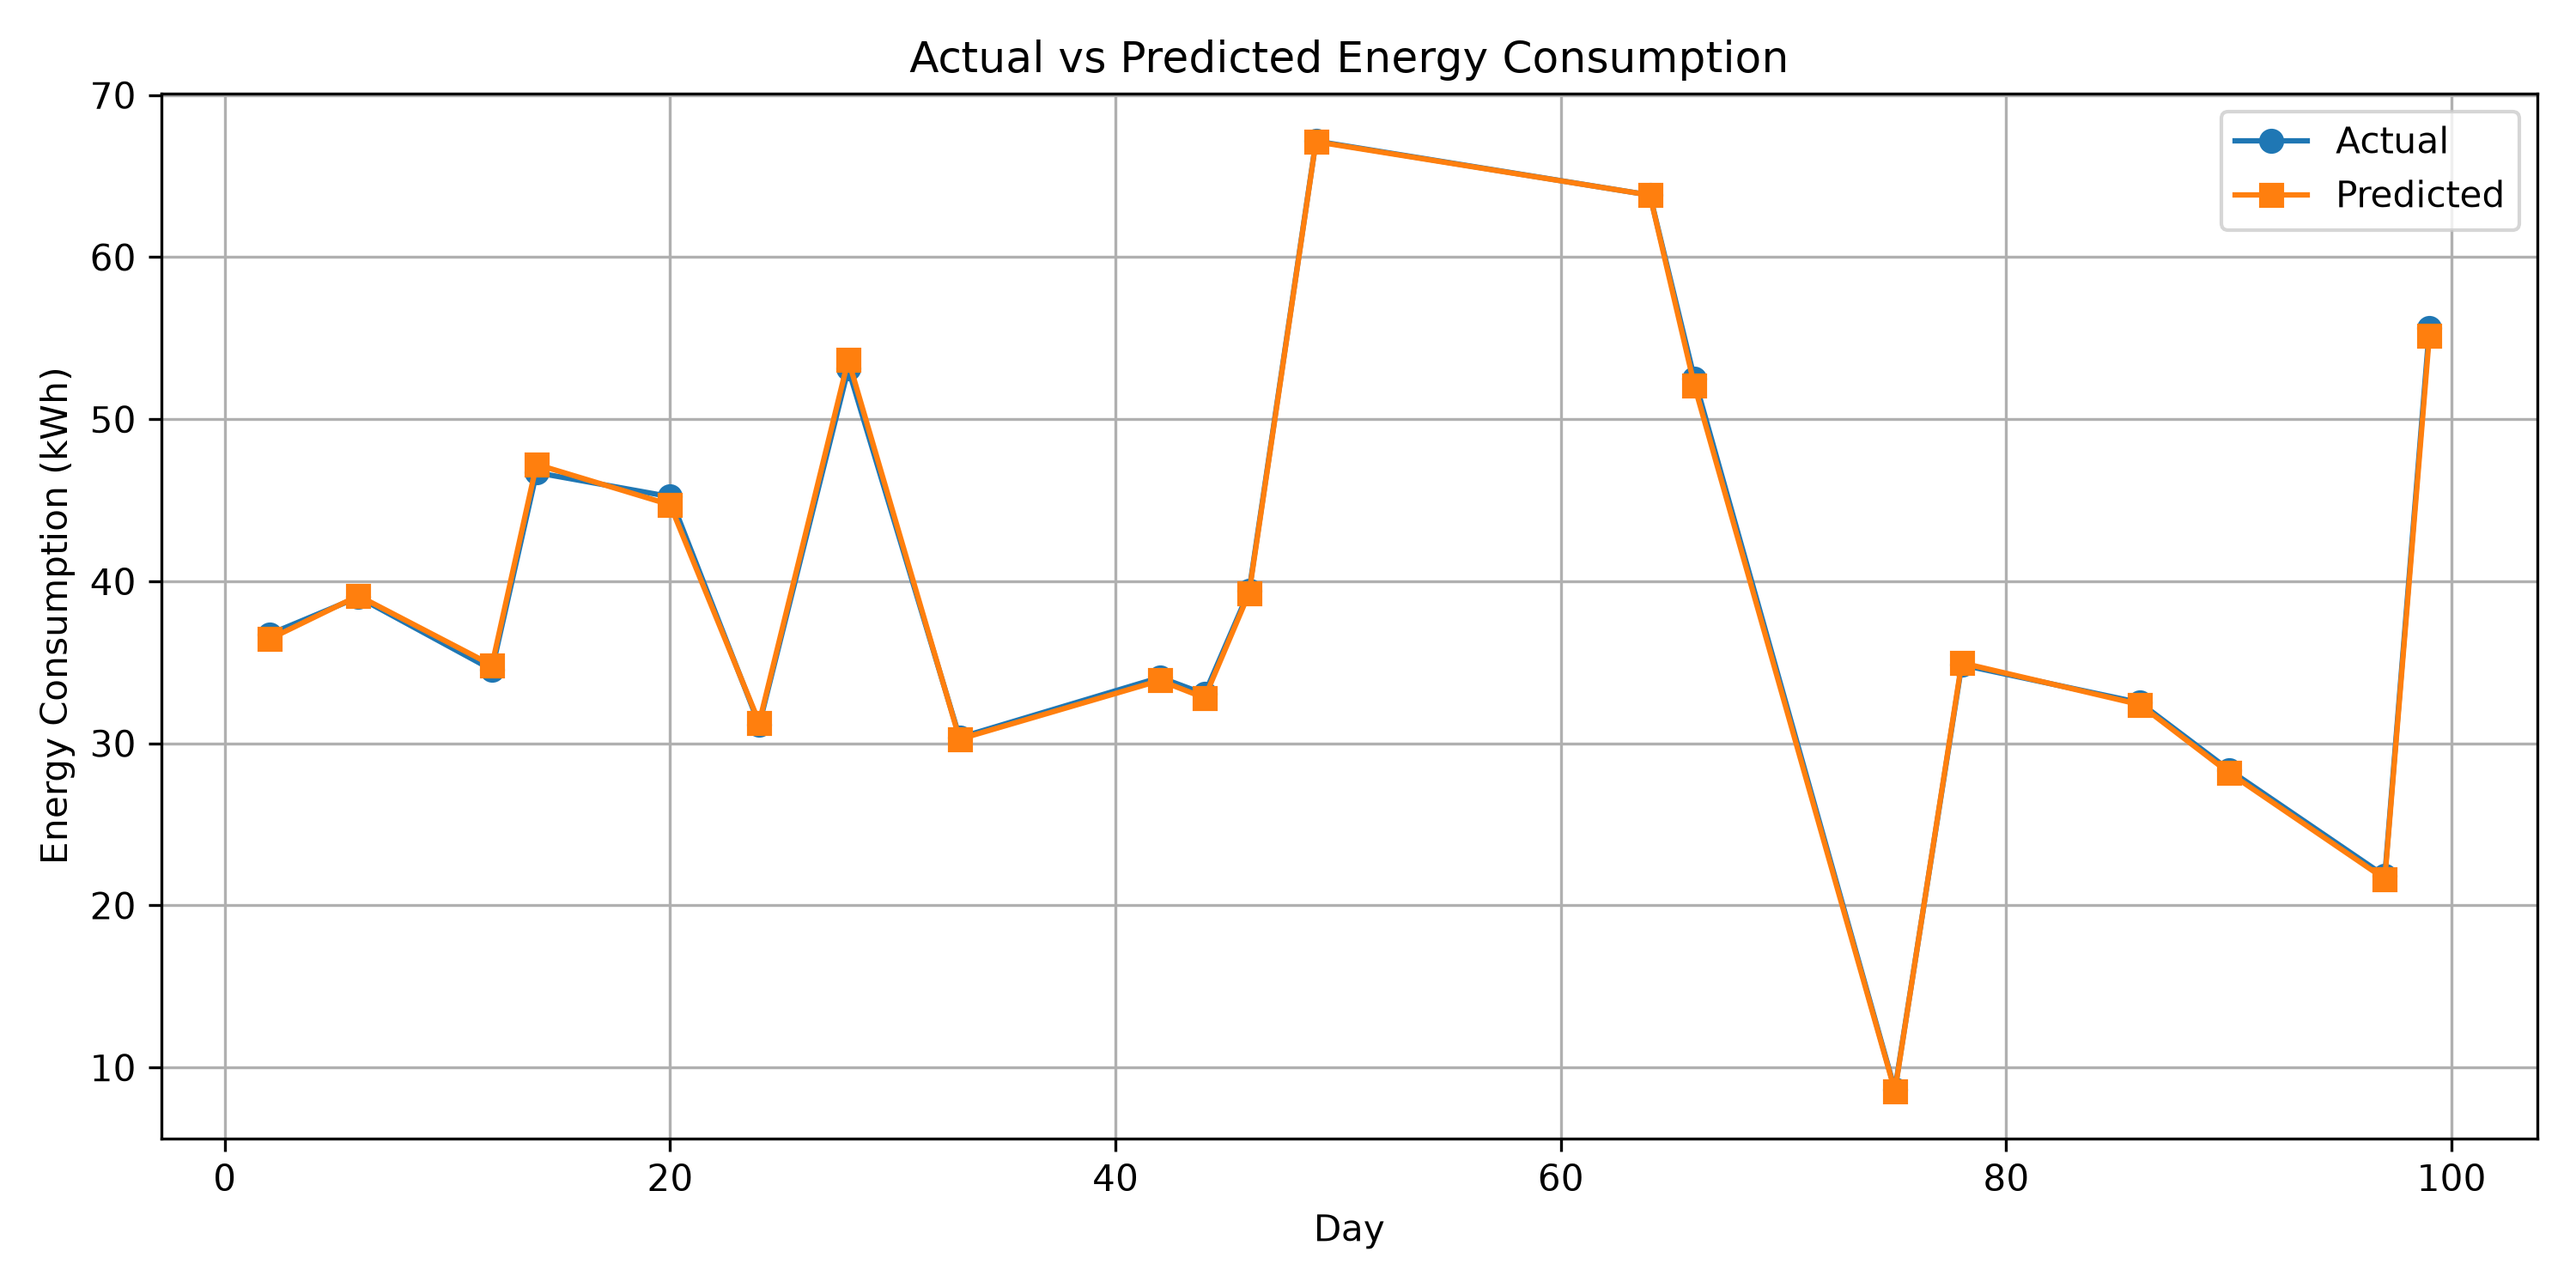
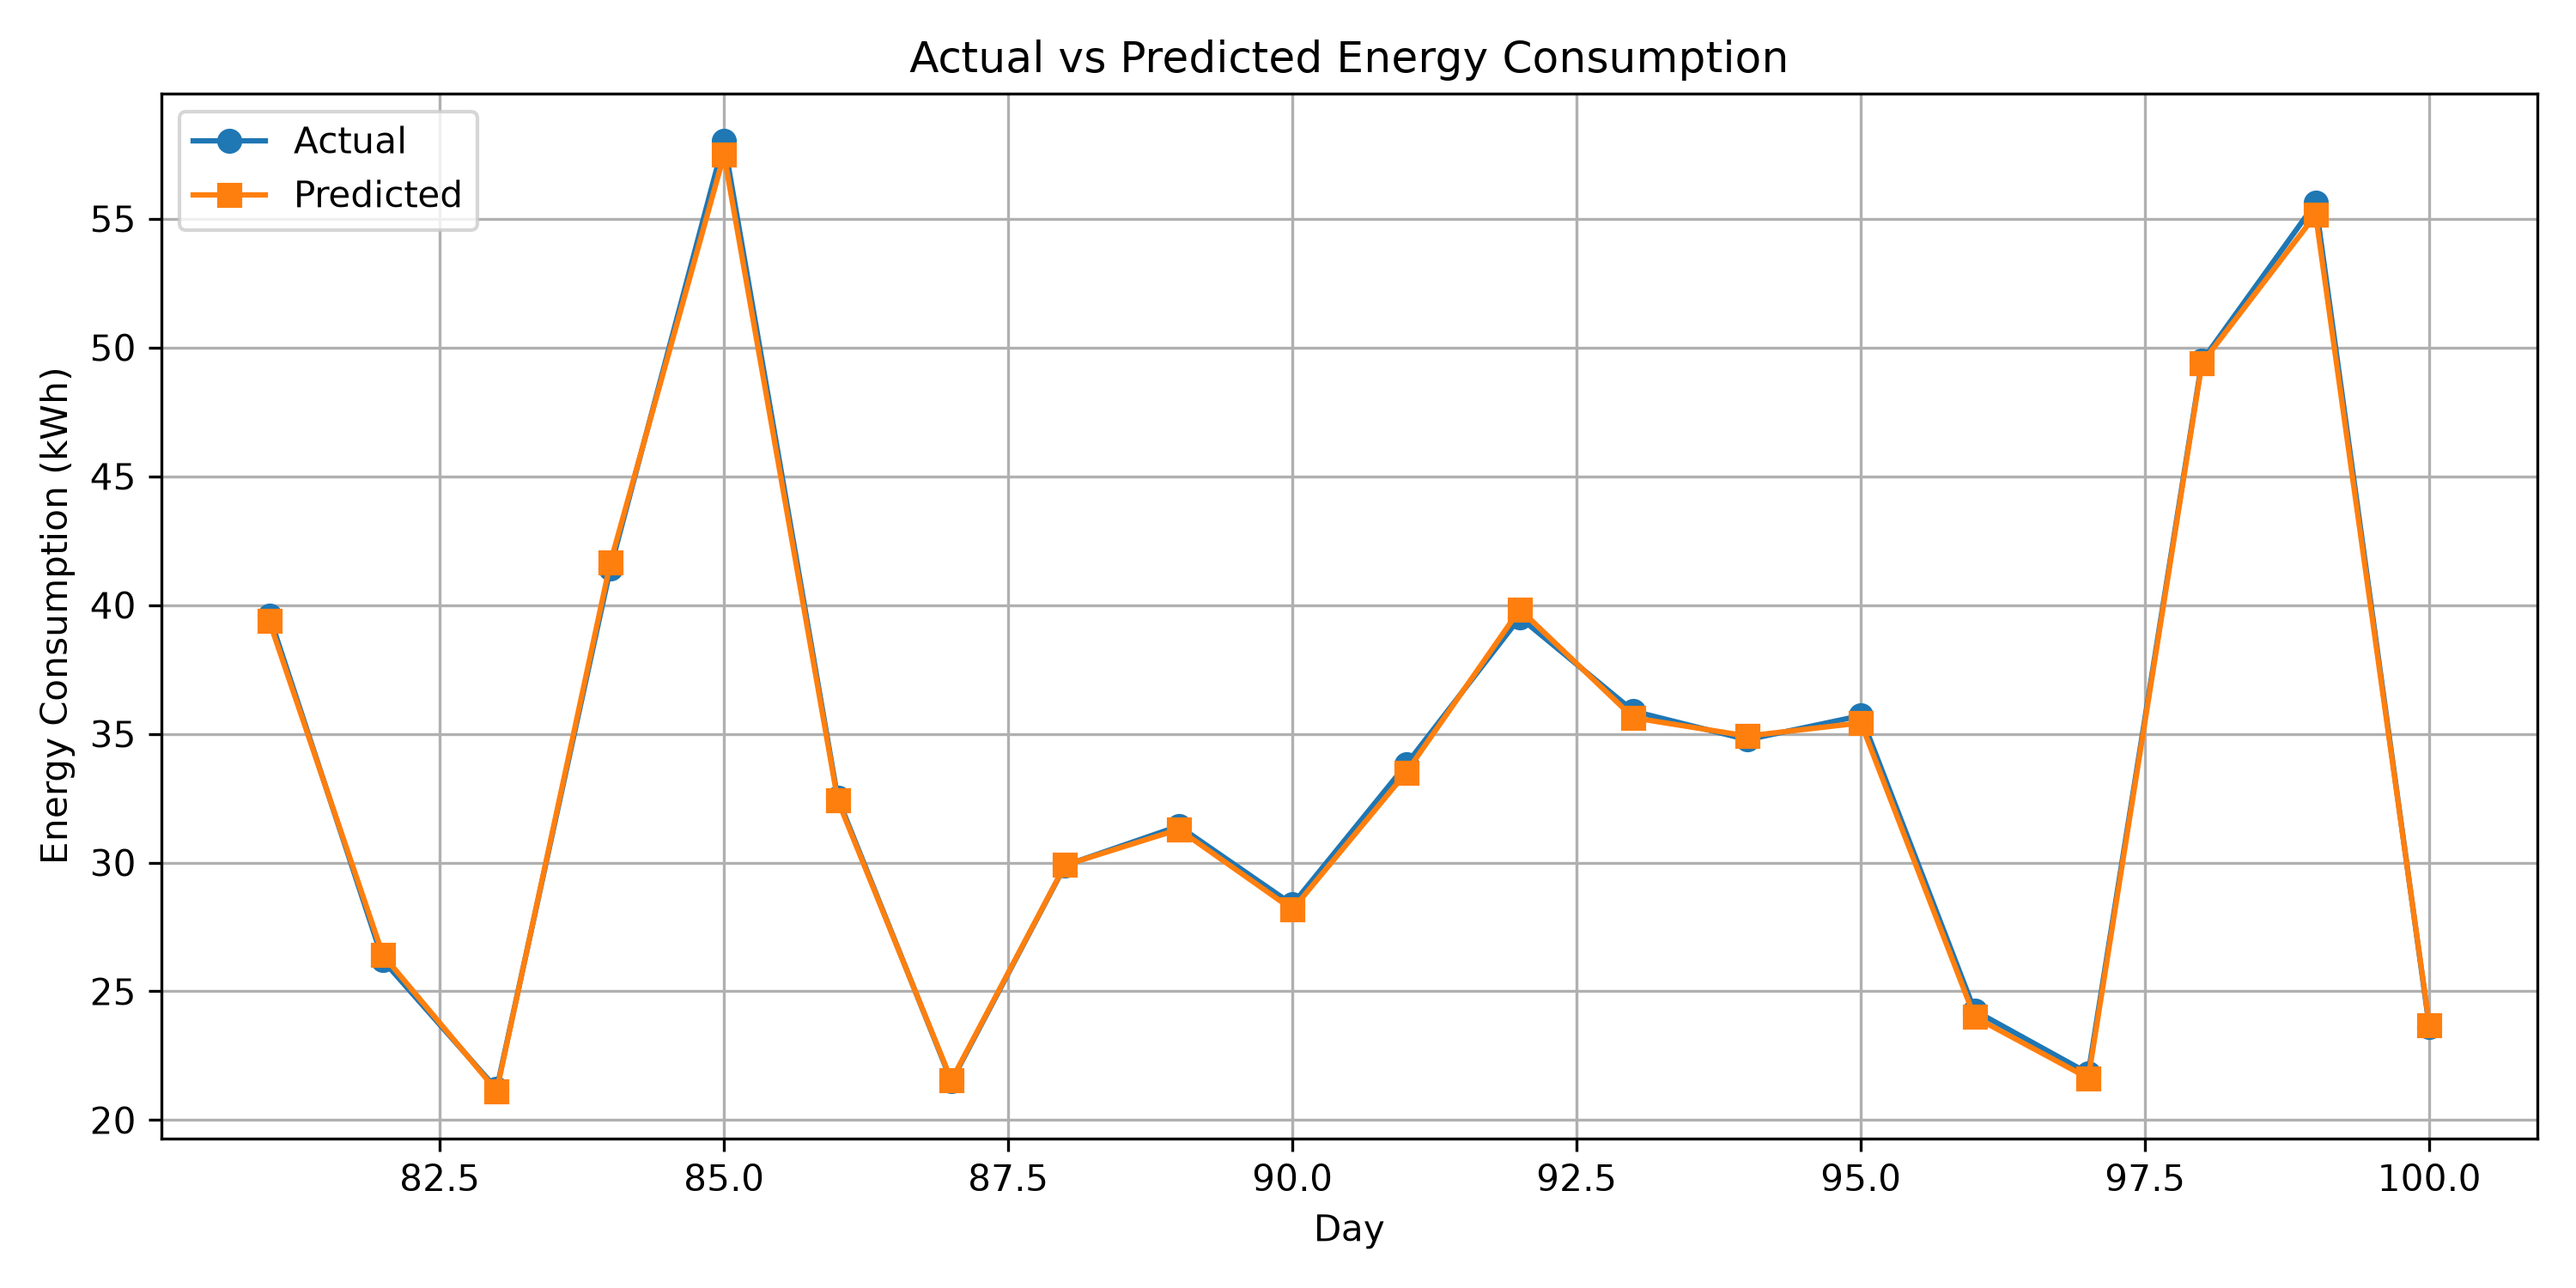
Update model evaluation and results

diff --git a/code/energy_prediction.py b/code/energy_prediction.py
@@ -3,7 +3,7 @@ import numpy as np
 import matplotlib.pyplot as plt
 from pathlib import Path
 
-from sklearn.model_selection import train_test_split
+
 from sklearn.linear_model import LinearRegression
 from sklearn.metrics import mean_absolute_error, mean_squared_error, r2_score
 
@@ -25,12 +25,13 @@ X = data[
 
 y = data["Actual Energy kWh"]
 
-X_train, X_test, y_train, y_test = train_test_split(
-    X,
-    y,
-    test_size=0.20,
-    random_state=42
-)
+split_index = int(len(X) * 0.80)
+
+X_train = X.iloc[:split_index]
+X_test = X.iloc[split_index:]
+
+y_train = y.iloc[:split_index]
+y_test = y.iloc[split_index:]
 
 print("\nTraining samples:", len(X_train))
 print("Testing samples:", len(X_test))

diff --git a/README.md b/README.md
@@ -126,13 +126,13 @@ The current results are:
 
 |---|---:|
 
-| MAE | 0.23 kWh |
+| MAE | 0.20 kWh |
 
-| RMSE | 0.29 kWh |
+| RMSE | 0.24 kWh |
 
-| R² Score | 0.9996 |
+| R² Score | 0.9995 |
 
-| MAPE | 0.61% |
+| MAPE | 0.58% |
 
 
 
@@ -228,13 +228,13 @@ For a selected period of 30 days, the current program produced:
 
 \- Actual consumption: 1203.38 kWh
 
-\- Predicted consumption: 1204.74 kWh
+\- Predicted consumption: 1204.62 kWh
 
 \- Actual estimated bill: ₹6236.32
 
-\- Predicted estimated bill: ₹6244.86
+\- Predicted estimated bill: ₹6244.12
 
-\- Difference: ₹8.54
+\- Difference: ₹7.80
 
 
 
